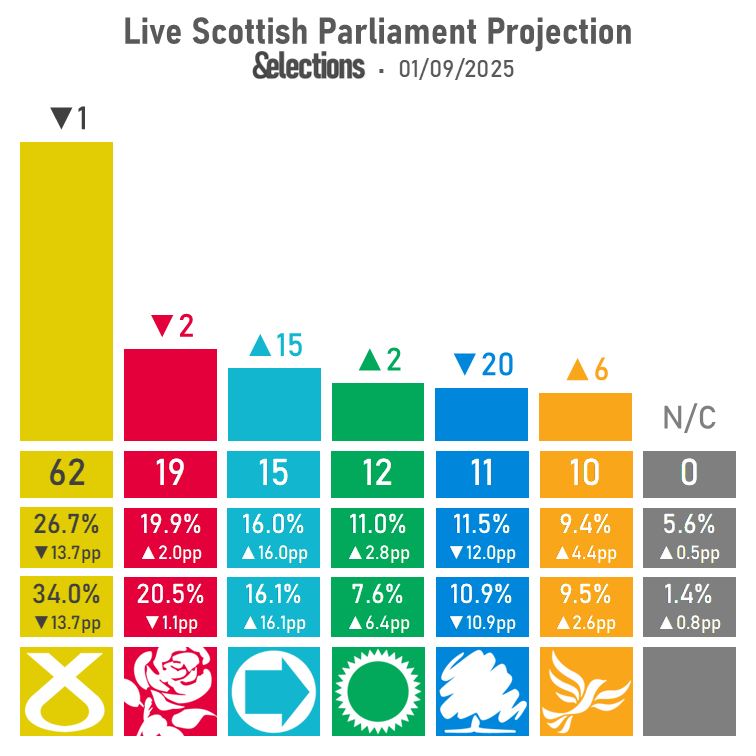
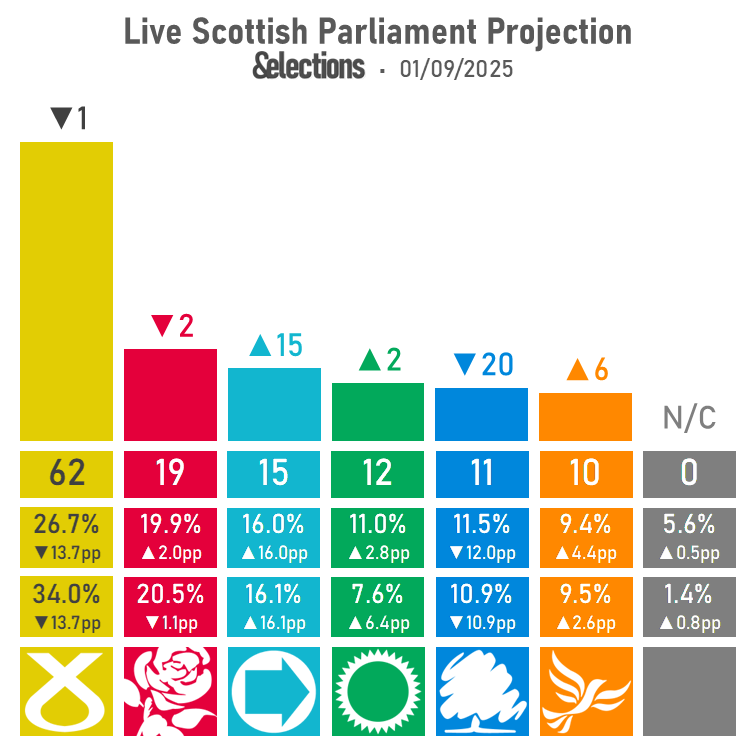
major reorg 3
- Fixed Holyrood mobile menu home page issue
- Changed current proje lib dem pic

Changed region(s): [[0.6997, 0.4868, 0.8519, 0.9735], [0.5172, 0.0608, 0.6693, 0.1217]]

diff --git a/holyrood/index.html b/holyrood/index.html
@@ -124,7 +124,7 @@
         <div id="mobiletitletext">
             <div id="actualtitlestext">
                 <div id="mobileotherpages">
-                    <a href="/">Home</a>
+                    <a href="/">Home</a><br>
                     <a href="../gb/">Westminster Proj.</a><br>
                     <a href="#">Holyrood Projection</a><br>
                     <a href="../senedd/">Senedd Projection</a><br>
